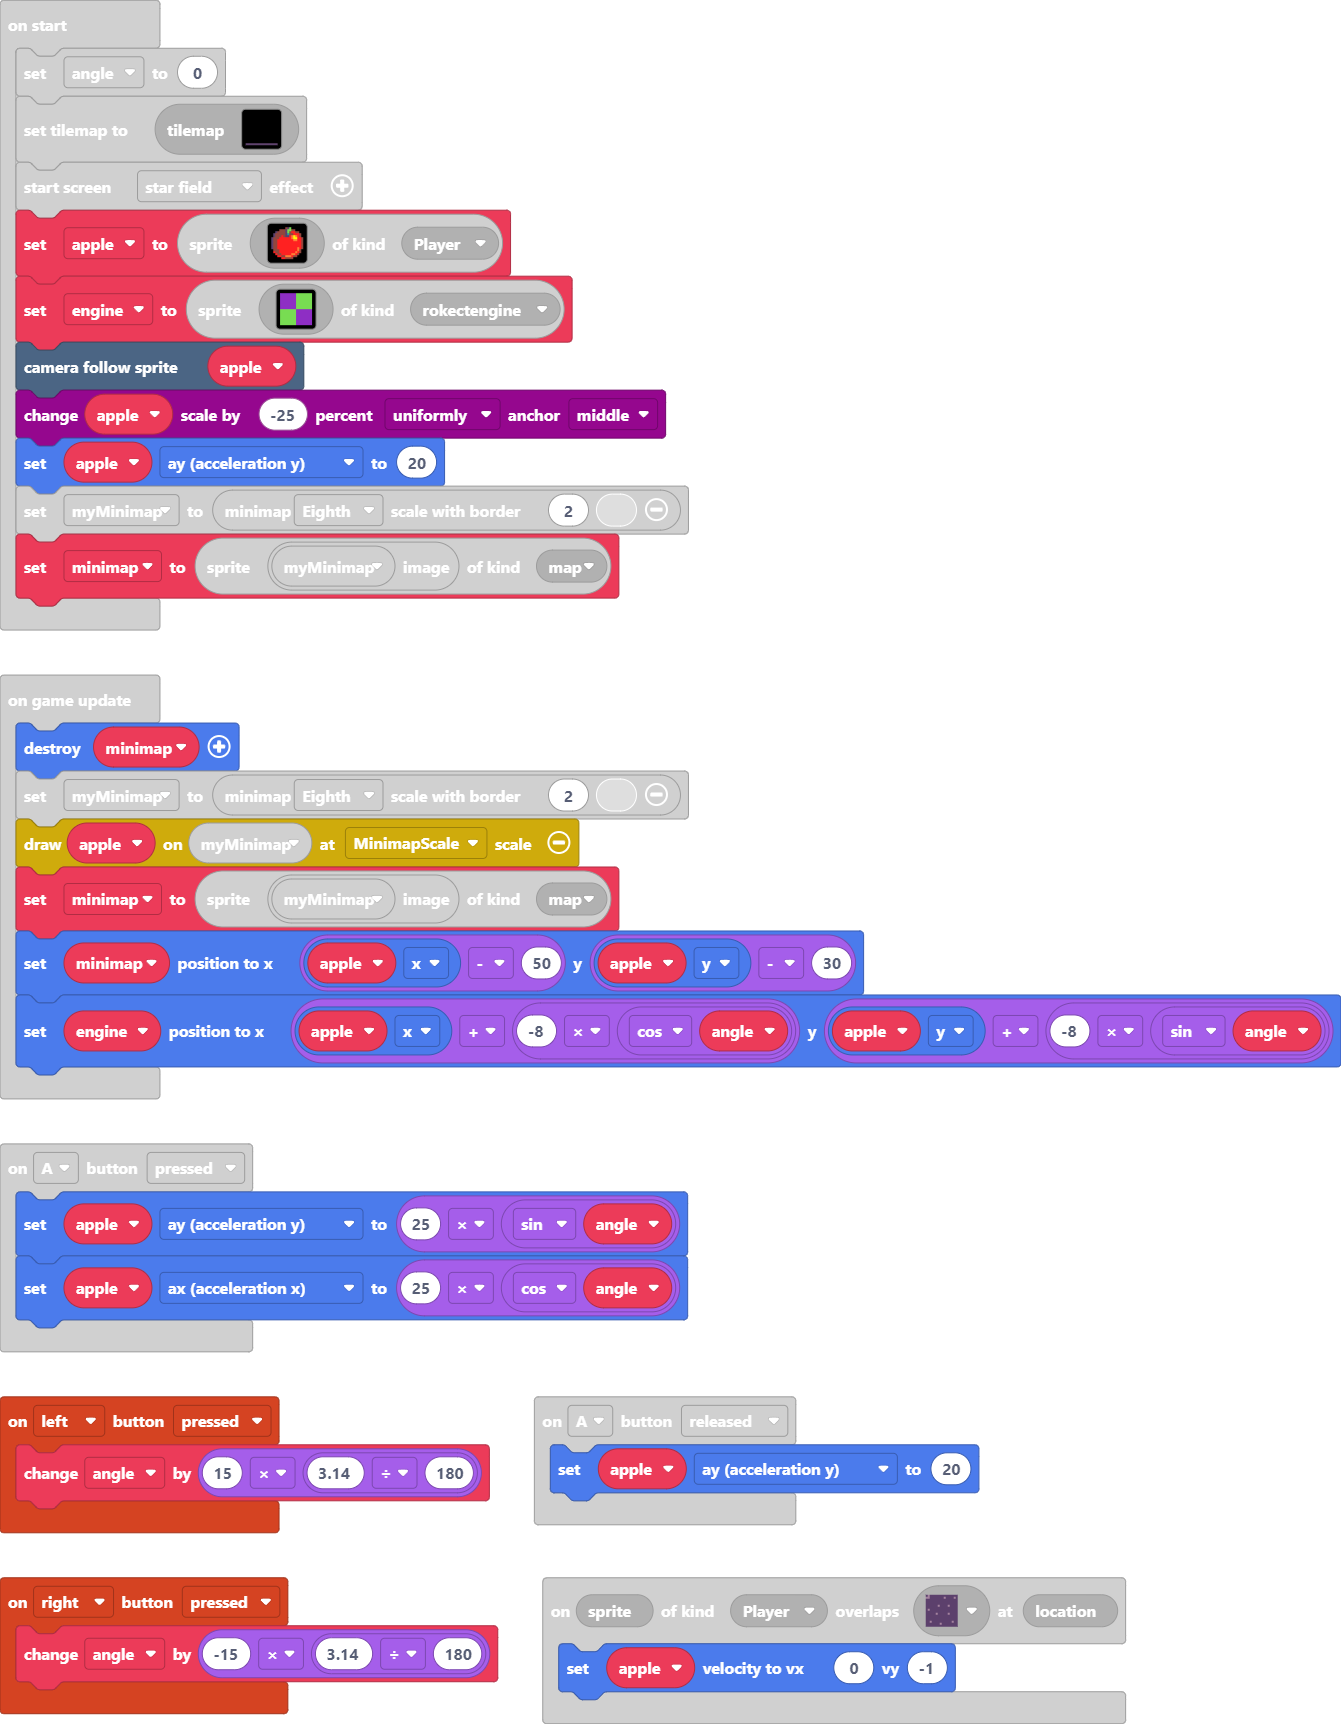
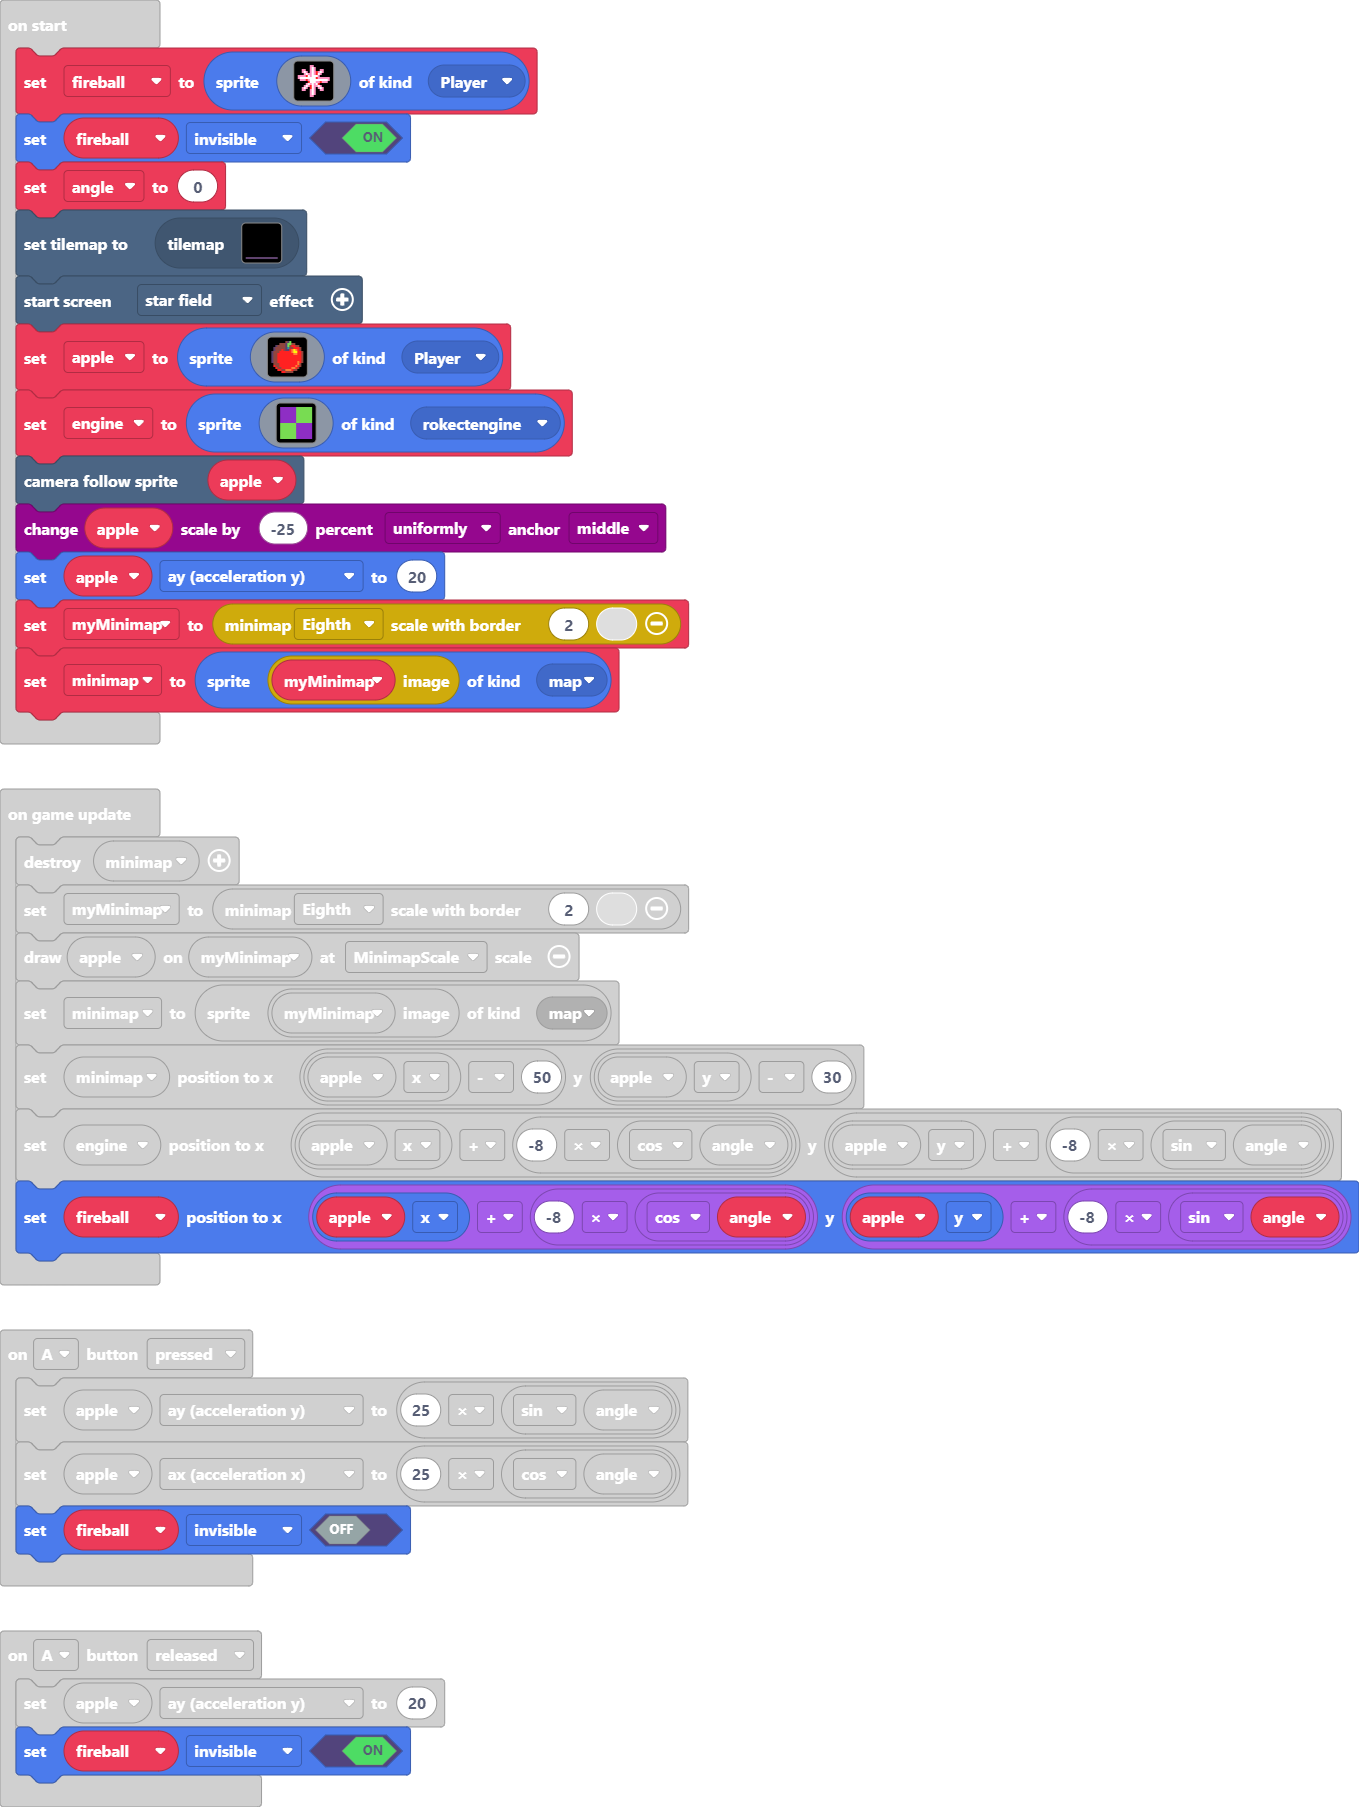
finished fireball

diff --git a/main.ts b/main.ts
@@ -5,6 +5,7 @@ namespace SpriteKind {
 controller.A.onEvent(ControllerButtonEvent.Pressed, function () {
     apple.ay = 25 * Math.sin(angle)
     apple.ax = 25 * Math.cos(angle)
+    fireball.setFlag(SpriteFlag.Invisible, false)
 })
 controller.left.onEvent(ControllerButtonEvent.Pressed, function () {
     angle += 15 * (3.14 / 180)
@@ -14,12 +15,33 @@ controller.right.onEvent(ControllerButtonEvent.Pressed, function () {
 })
 controller.A.onEvent(ControllerButtonEvent.Released, function () {
     apple.ay = 20
+    fireball.setFlag(SpriteFlag.Invisible, true)
 })
 scene.onOverlapTile(SpriteKind.Player, sprites.dungeon.darkGroundSouthEast1, function (sprite, location) {
     apple.setVelocity(0, -1)
 })
 let apple: Sprite = null
 let angle = 0
+let fireball: Sprite = null
+fireball = sprites.create(img`
+    . . . . . . 3 3 . . . . . . . . 
+    . . . . . . 3 1 3 . . . . . . . 
+    . . 3 3 . . 3 1 3 . . 3 3 . . . 
+    . . 3 1 3 . 3 1 3 2 3 1 3 . . . 
+    . . . 3 1 3 3 1 3 2 1 3 . . . . 
+    3 3 3 3 2 1 3 1 1 1 3 . . . . . 
+    3 1 1 1 1 1 1 1 1 2 3 3 3 3 3 3 
+    . 3 3 3 2 3 1 1 1 1 1 1 1 1 1 3 
+    . . . . . 2 1 1 1 3 3 2 3 3 3 . 
+    . . . . 3 1 3 1 3 1 2 . . . . . 
+    . . . 3 1 3 2 1 3 3 1 3 . . . . 
+    . . 3 1 3 . 2 1 3 . 3 1 3 . . . 
+    . . 3 3 . . 3 1 3 . . 3 3 . . . 
+    . . . . . . 3 1 3 . . . . . . . 
+    . . . . . . 3 1 3 . . . . . . . 
+    . . . . . . 3 3 . . . . . . . . 
+    `, SpriteKind.Player)
+fireball.setFlag(SpriteFlag.Invisible, true)
 angle = 0
 tiles.setCurrentTilemap(tilemap`level1`)
 effects.starField.startScreenEffect()
@@ -57,4 +79,5 @@ game.onUpdate(function () {
     minimap2 = sprites.create(minimap.getImage(myMinimap), SpriteKind.map)
     minimap2.setPosition(apple.x - 50, apple.y - 30)
     engine.setPosition(apple.x + -8 * Math.cos(angle), apple.y + -8 * Math.sin(angle))
+    fireball.setPosition(apple.x + -8 * Math.cos(angle), apple.y + -8 * Math.sin(angle))
 })
